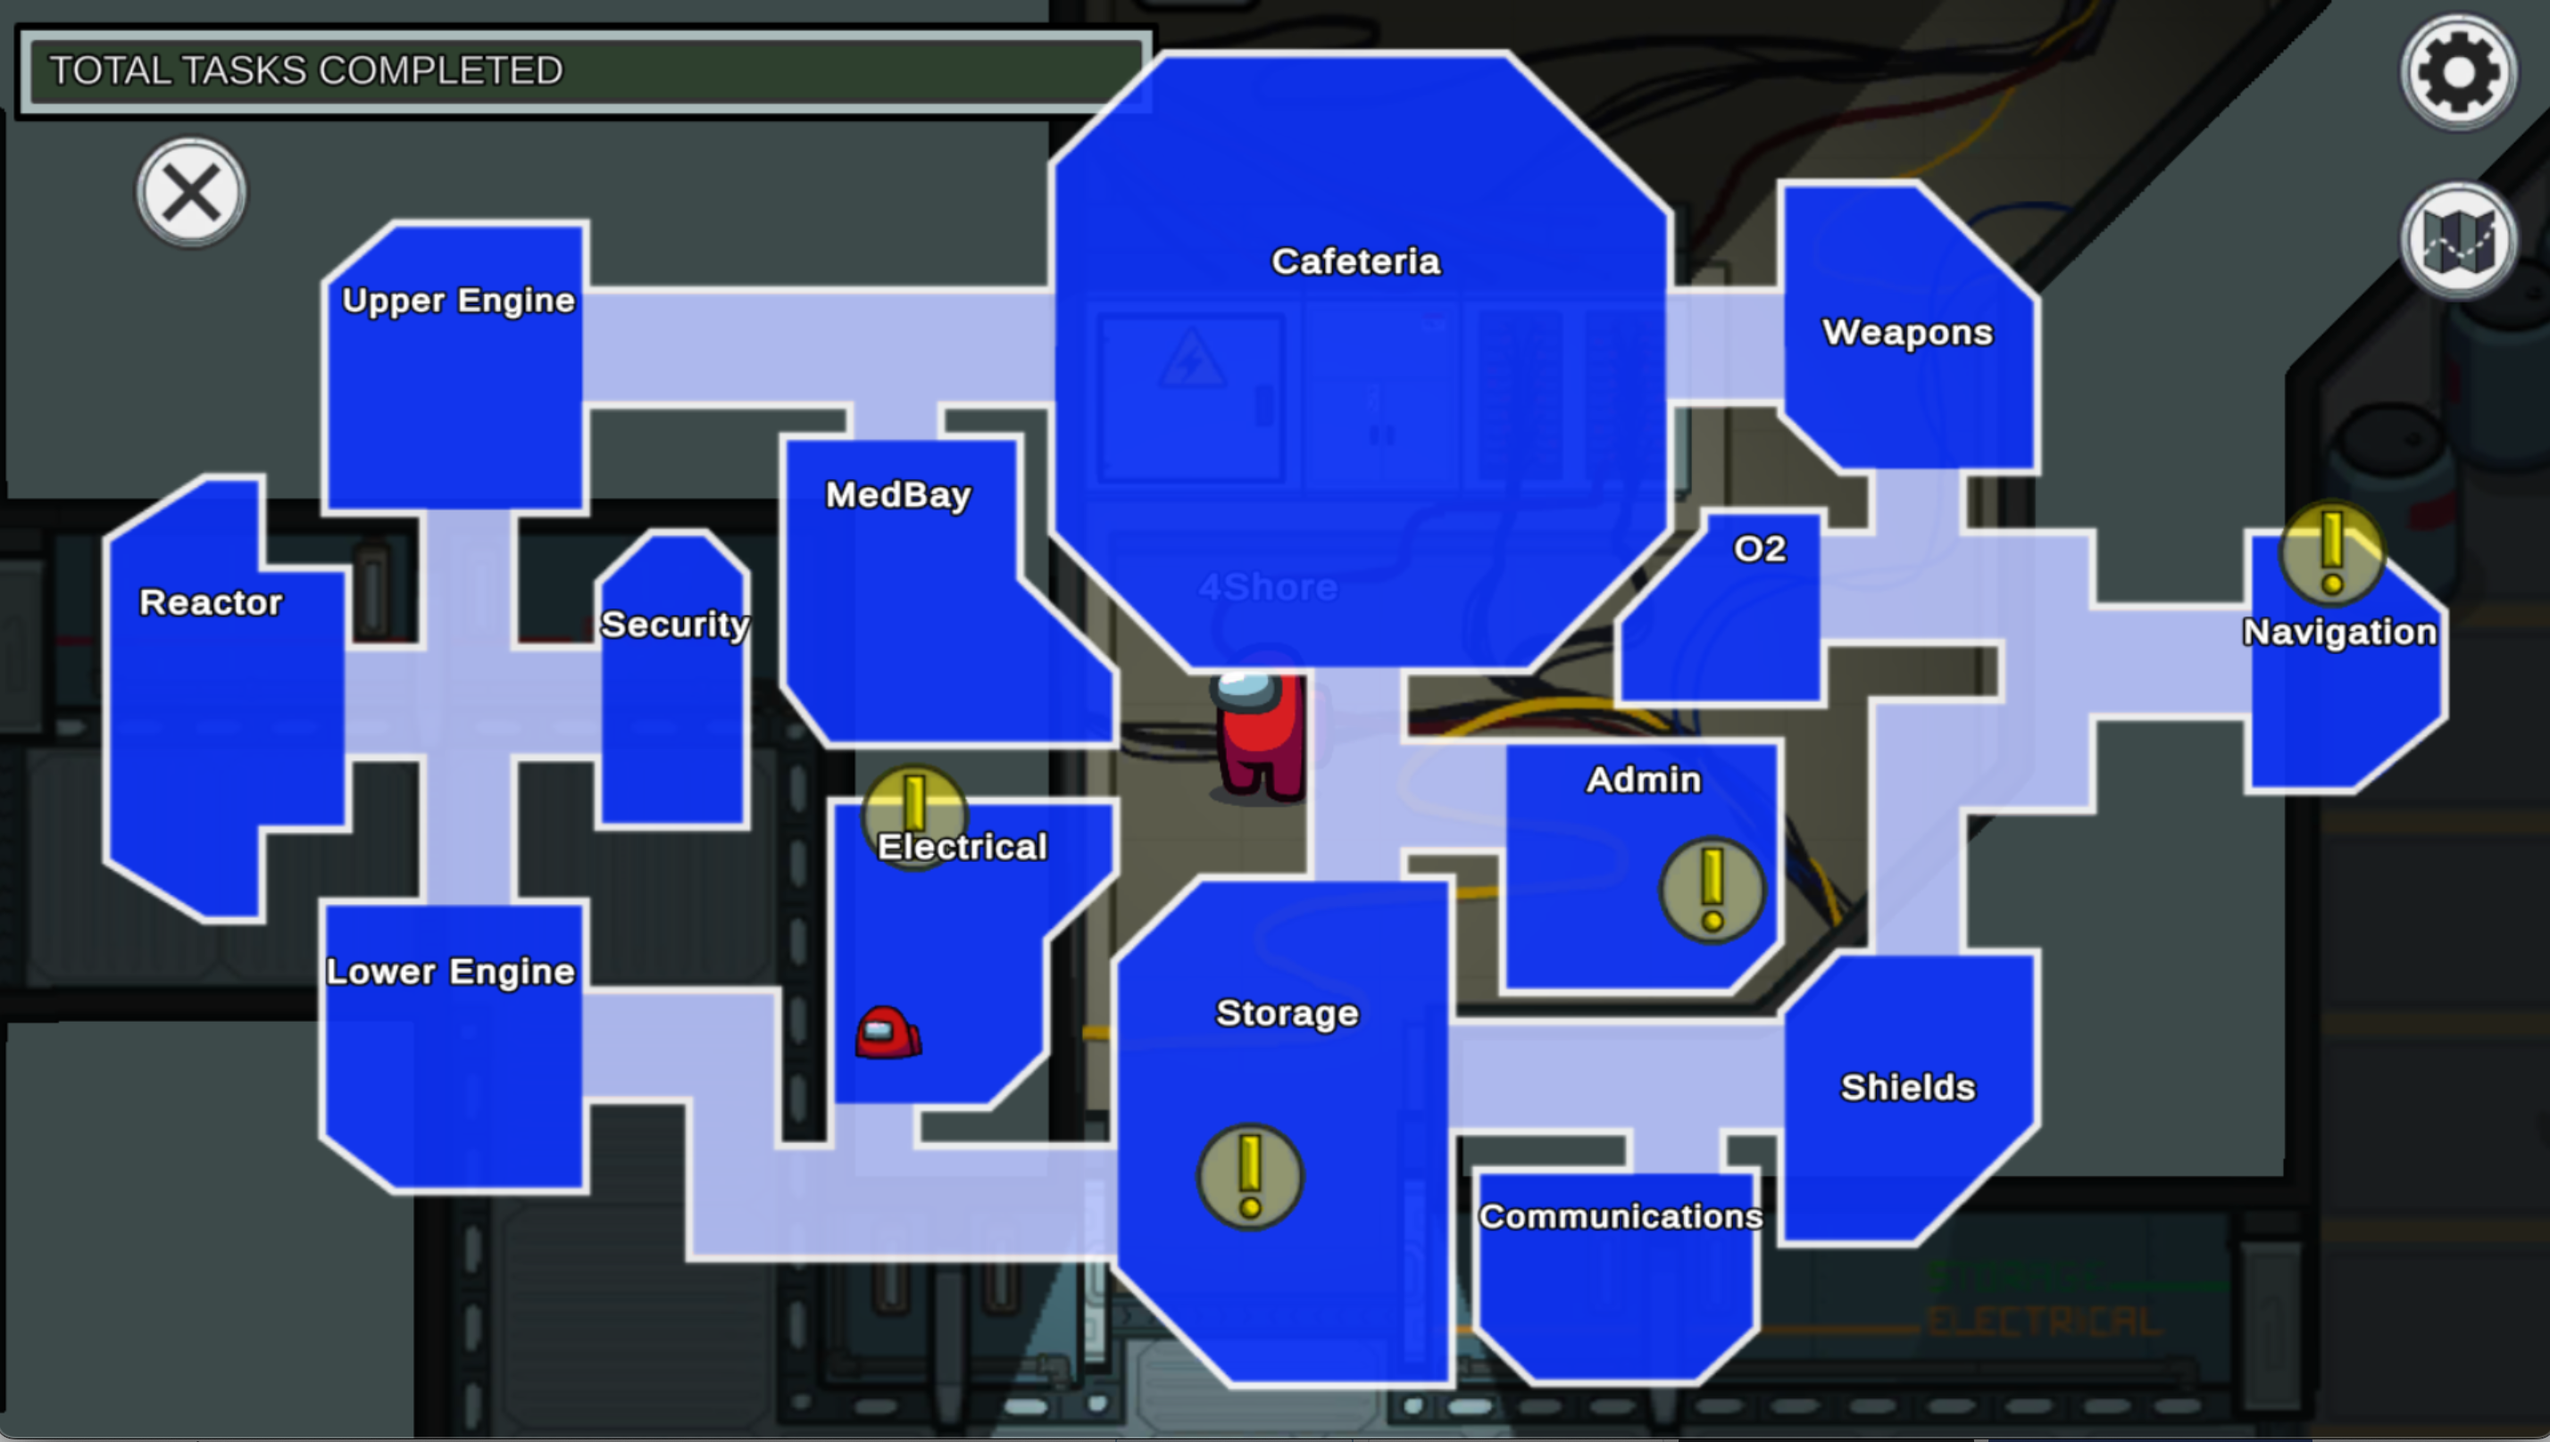
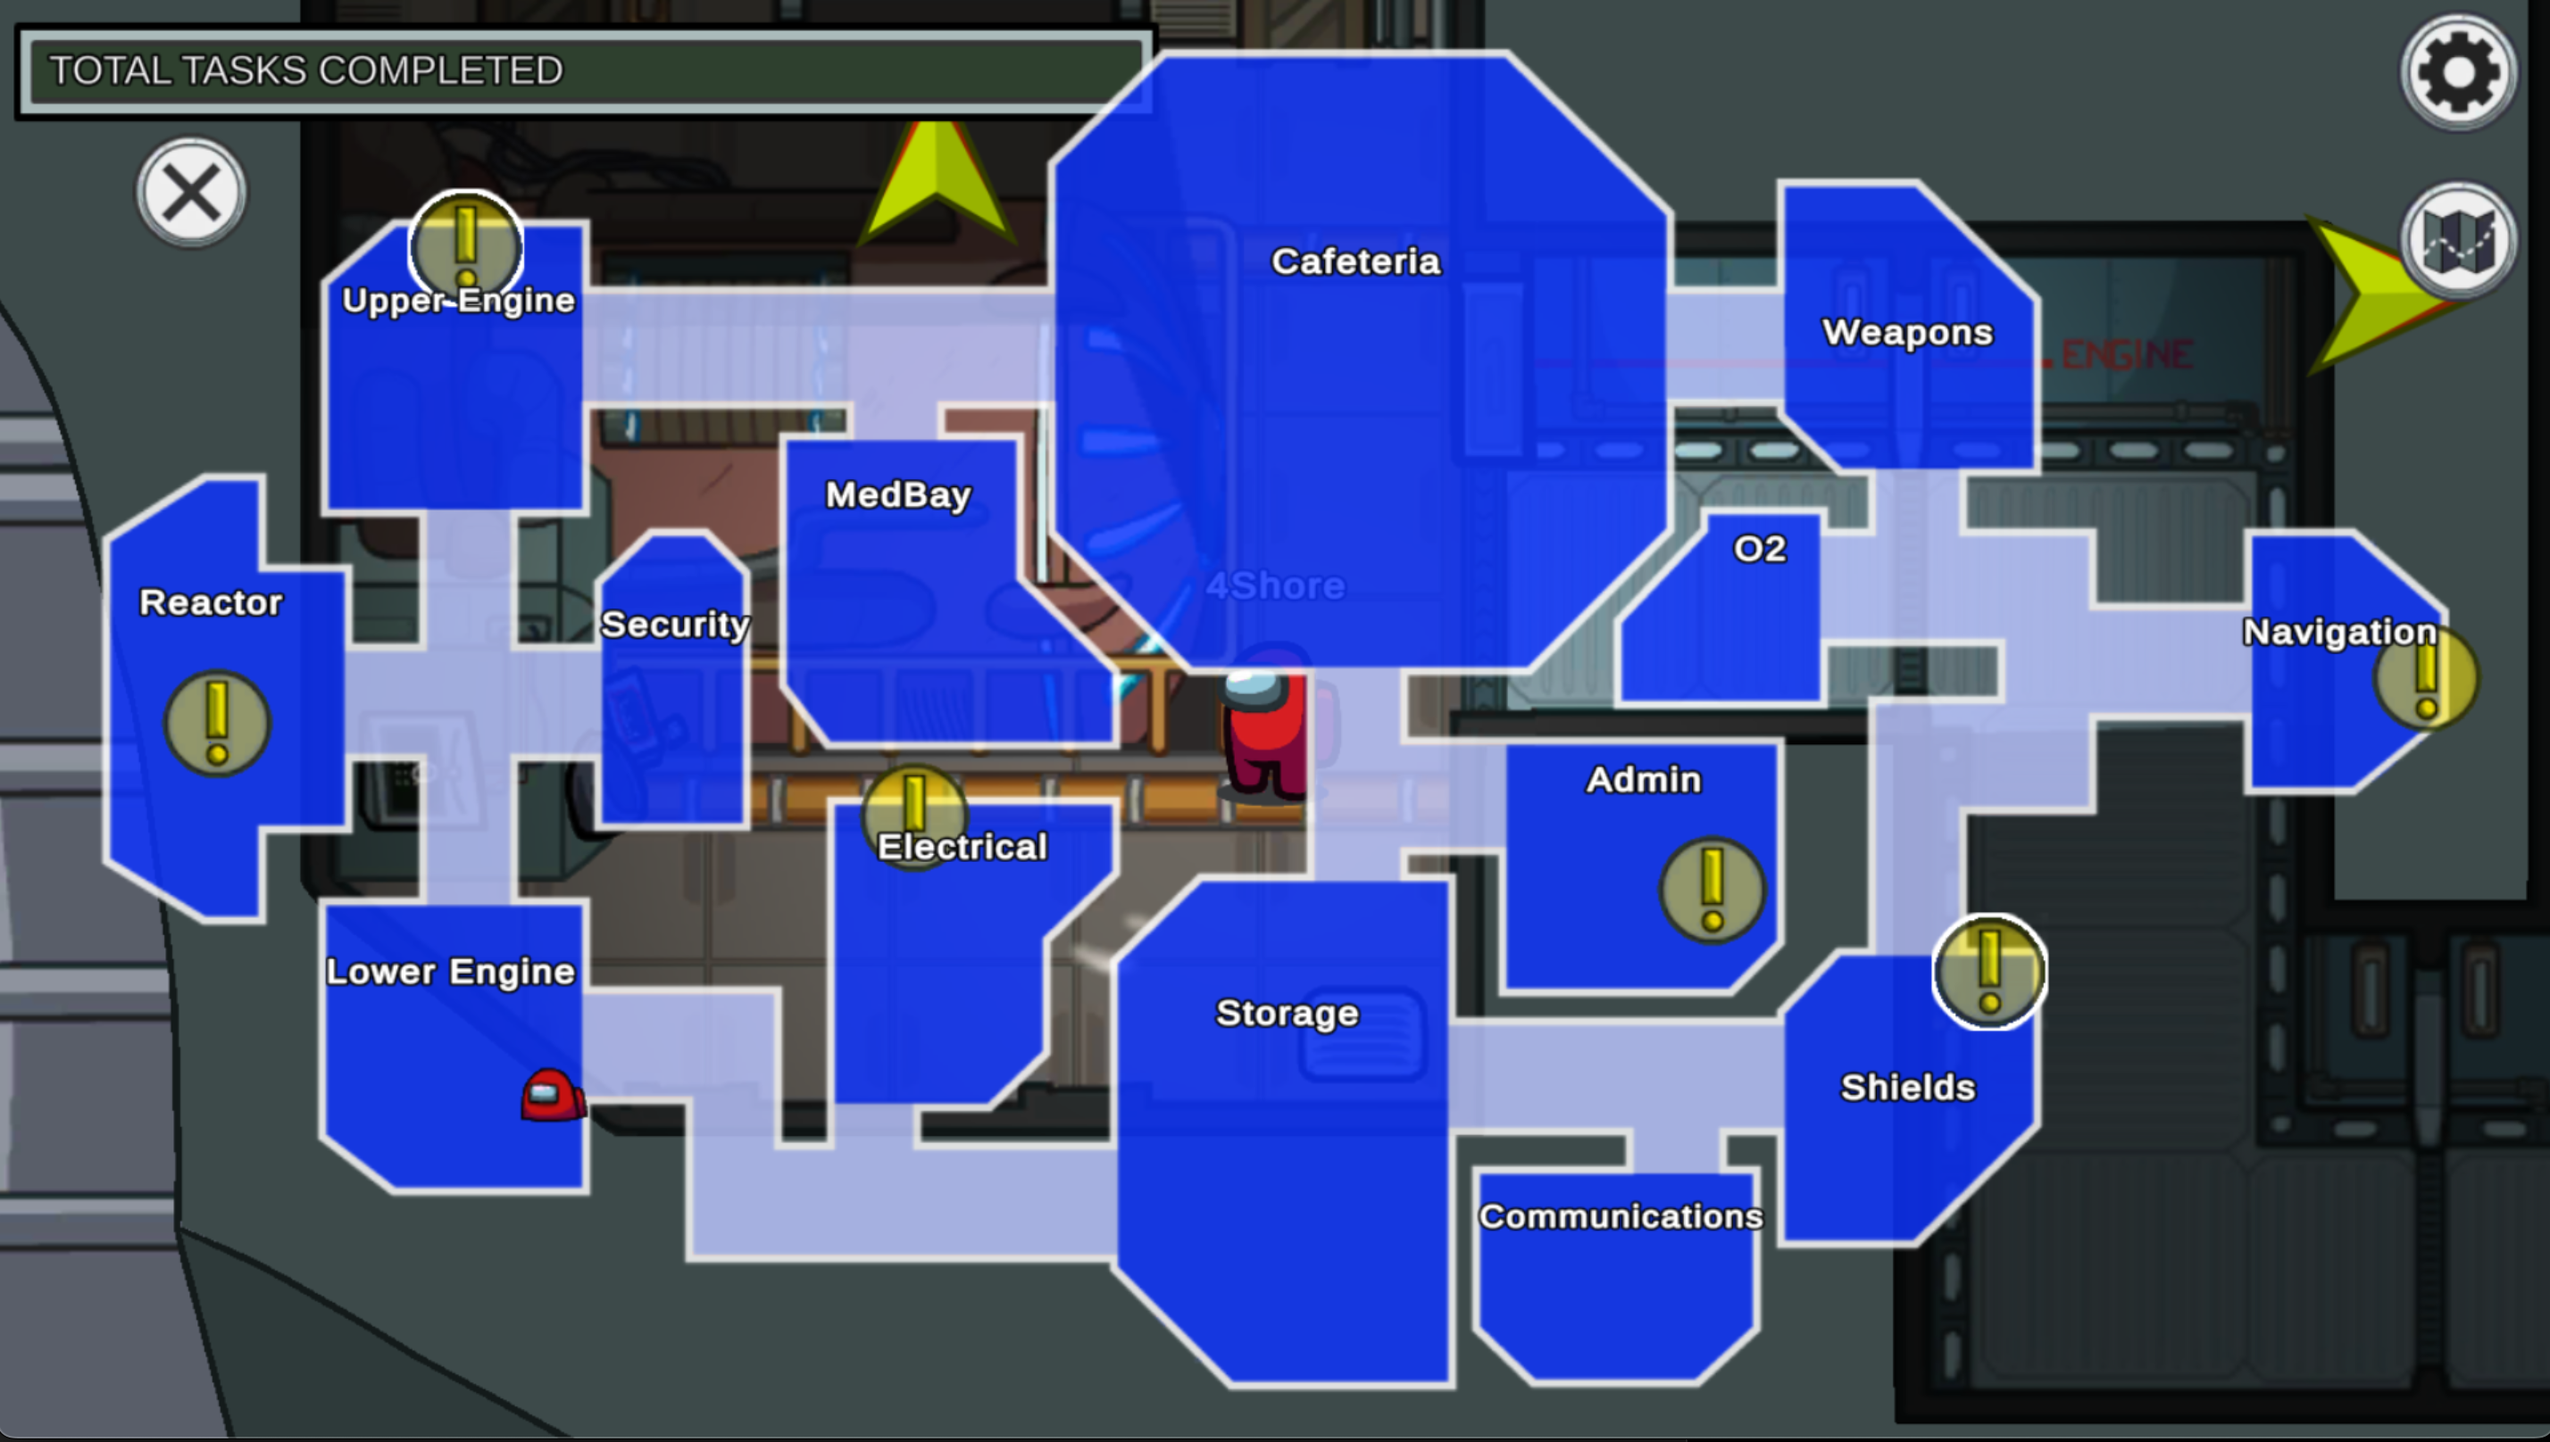
Good Resting Spot.
Can currently navigate from MedBay - Westward to Electrical and do a task

diff --git a/main.py b/main.py
@@ -129,37 +129,45 @@ if __name__ == '__main__':
     pyautogui.click(1560, 500, clicks=1)
     region = {'top': 178, 'left': 181, 'width': 1428, 'height': 808}
 
-    # sleep(5)
-    # location_info = ping_location()
-    # current_location = location_info[0]
-    # current_room = location_info[1]
-    # print("Now the location is: " + str(current_location))
+    location_info = ping_location()
+    current_location = location_info[0]
+    current_room = location_info[1]
+    print("Current Room: " + str(map_info.convert_room_id(current_room)))
+    print("Now the location is: " + str(current_location))
     #
-    # # # TODO implement better task system
-    # task = [5, 0]
+    # TODO implement better task system
+    task = [5, 0]
     # while task[0] != current_room:
-    #     location_info = ping_location()
-    #     # current_location = location_info[0]
-    #     # print("Now the location is: " + str(current_location))
-    #     current_room = location_info[1]
-    #     print("Current Room: " + str(map_info.convert_room_id(current_room)))
-    #     waypoints = navigate(current_room, task)
-    #     for i in range(len(waypoints)):
-    #         target_location = waypoints[i]
-    #         print("New Target for Waypoint #" + str(i) + " is: " + str(waypoints[i]) + " and we are at " + str(
-    #             current_location))
-    #         vector_x, vector_y, distance = calculate_vector(current_location, target_location)
-    #         move(vector_x, vector_y, distance)
-    #         current_location = target_location
-    #         if (i % 9) == 0:
-    #             try:
-    #                 location_info = ping_location()
-    #                 current_location = location_info[0]
-    #                 current_room = location_info[1]
-    #             except:
-    #                 current_location = waypoints[i]
-    #         else:
-    #             current_location = waypoints[i]
+    x = 1
+    while x ==1:
+
+        waypoints, destination_room, kill = navigate(current_room, task)
+        print("Current Room: " + str(map_info.convert_room_id(current_room)))
+        for i in range(len(waypoints)):
+            target_location = waypoints[i]
+            print("New Target for Waypoint #" + str(i) + " is: " + str(waypoints[i]) + " in " +str(map_info.convert_room_id(destination_room))+ " and we are at " + str(
+                current_location) + " in " + str(map_info.convert_room_id(current_room)))
+            vector_x, vector_y, distance = calculate_vector(current_location, target_location)
+            move(vector_x, vector_y, distance)
+            current_location = target_location
+            current_room = destination_room
+            if kill:
+                print(task)
+                tasks.trigger_task(task)
+                task.pop(0)
+                print(task)
+                x = 0
+
+            # if (i % 9) == 0:
+            #     try:
+            #         location_info = ping_location()
+            #         current_location = location_info[0]
+            #         current_room = location_info[1]
+            #     except:
+            #         current_location = waypoints[i]
+            # else:
+            #     current_location = waypoints[i]
+            print("Current Room: " + str(map_info.convert_room_id(current_room)))
 
     #     while abs(current_location[0] - target_location[0]) > 50:
     #         location_info  = ping_location()
@@ -186,7 +194,7 @@ if __name__ == '__main__':
     # current_location = location_info[0]
     # current_room = location_info[1]
     # get_a_room(current_location)
-    tasks.trigger_task("accept_power")
-    while True:
-        print('The current pointer position is {0}'.format(
-            mouse.position))
+    # tasks.trigger_task("accept_power")
+    # while True:
+    #     print('The current pointer position is {0}'.format(
+    #         mouse.position))

diff --git a/navigation.py b/navigation.py
@@ -1,31 +1,47 @@
 def navigate(current_room, task):
+    kill = False
     if current_room == 1:
         pass
     elif current_room == 2:
         if task[0] == 3 or 4 or 11 or 12 or 5:
             waypoint = [(1018, 510), (986, 402), (625, 404)]
+            destination = 3
         else:
             waypoint = [(1018, 510), (1047, 411), (1220, 412)]
+            destination = 1
     elif current_room == 3:
         if task[0] == 1:
             waypoint = [(632, 525), (646, 398), (1316, 401)]
+            destination = 4
         elif task[0] == 2:
             waypoint = [(632, 525), (646, 398), (1014, 399), (1013, 743)]
+            destination = 2
         elif task[0] == 12:
             pass
         elif task[0] == 11:
             pass
         elif task[0] == 4 or 5 or 6:
             waypoint = [(631, 517), (541, 529), (537, 1052)]
+            destination = 4
     elif current_room == 4:
         if task[0] == 5:
             waypoint = [(636, 1049), (637, 1178), (814, 1188), (847, 1346),(988, 1329), (1018, 1189)]
+            destination = 5
         pass
     elif current_room == 5:
-        if task[0] == 4 or 12 or 11 or 2:
-            waypoint = [(989, 1195), (982, 1342), (855, 1336), (834, 1180), (656, 1175)]
+        # if task[0] ==  12 or 11 or 2:
+        #     waypoint = [(989, 1195), (982, 1342), (855, 1336), (834, 1180), (656, 1175)]
+        #     destination = 4
+
+        if task[0] == 5:
+            if task[1] == 0:
+                waypoint = [(1156, 1060), (1000, 920)]
+                destination = 5
+                kill = True
+
         else:
-            waypoint = [(989, 1195), (982, 1342), (1296, 1346)]
+            waypoint = [(1156, 1060), (1000, 946)]
+            destination = 5
     elif current_room == 6:
         pass
     elif current_room == 7:
@@ -59,7 +75,7 @@ def navigate(current_room, task):
     elif current_room == 21:
         pass
 
-    return waypoint
+    return waypoint, destination, kill
 
 
 def get_a_room(current_location):

diff --git a/tasks.py b/tasks.py
@@ -1,21 +1,25 @@
 import pyautogui
 import time
 
+
 def divert_power():
+    time.sleep(0.5)
     for i in [645, 715, 788, 860, 935, 1000, 1075, 1150]:
         pyautogui.moveTo(i, 765)
         pyautogui.drag(0, -83, button='left')
     print("Task Complete")
 
+
 def accept_power():
     time.sleep(0.5)
     pyautogui.click(900, 585, clicks=1)
 
+
 def trigger_task(task):
+    print(task)
     pyautogui.click(1500, 870, clicks=1)
 
-    if task == "divert_power":
+    if task[0] == 0:
         divert_power()
     elif task == "accept_power":
         accept_power()
-
